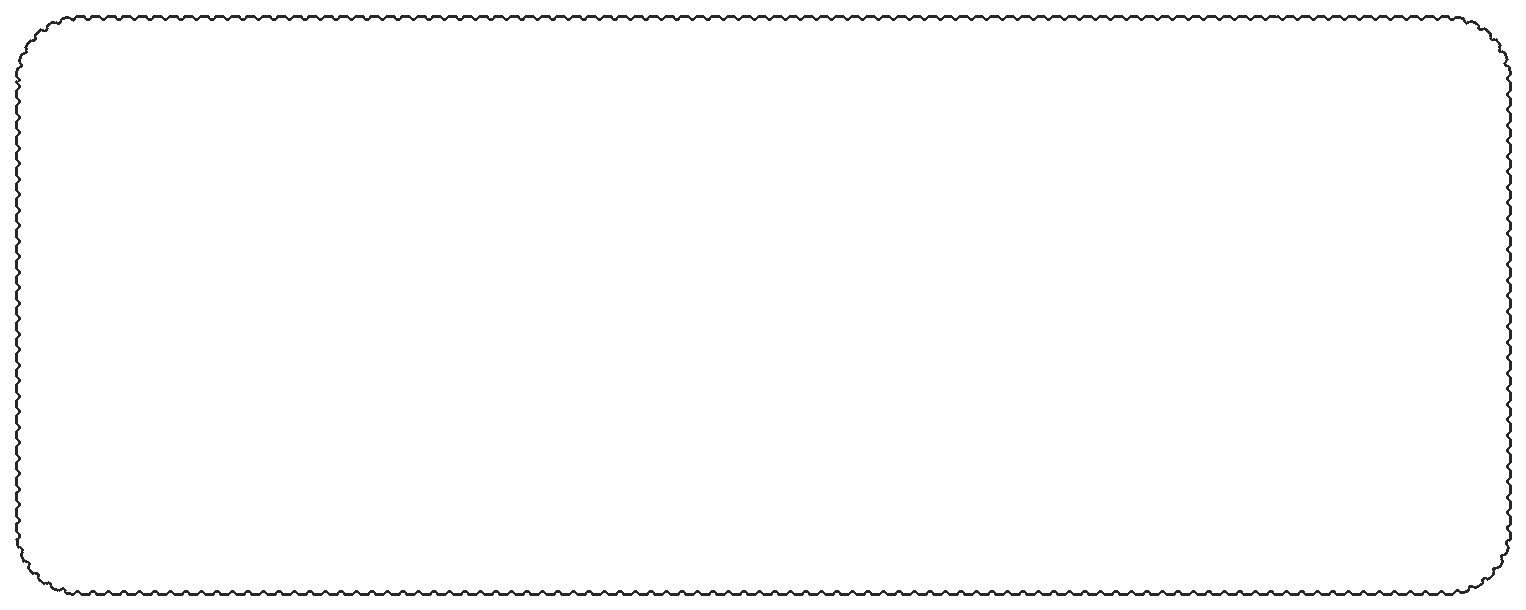
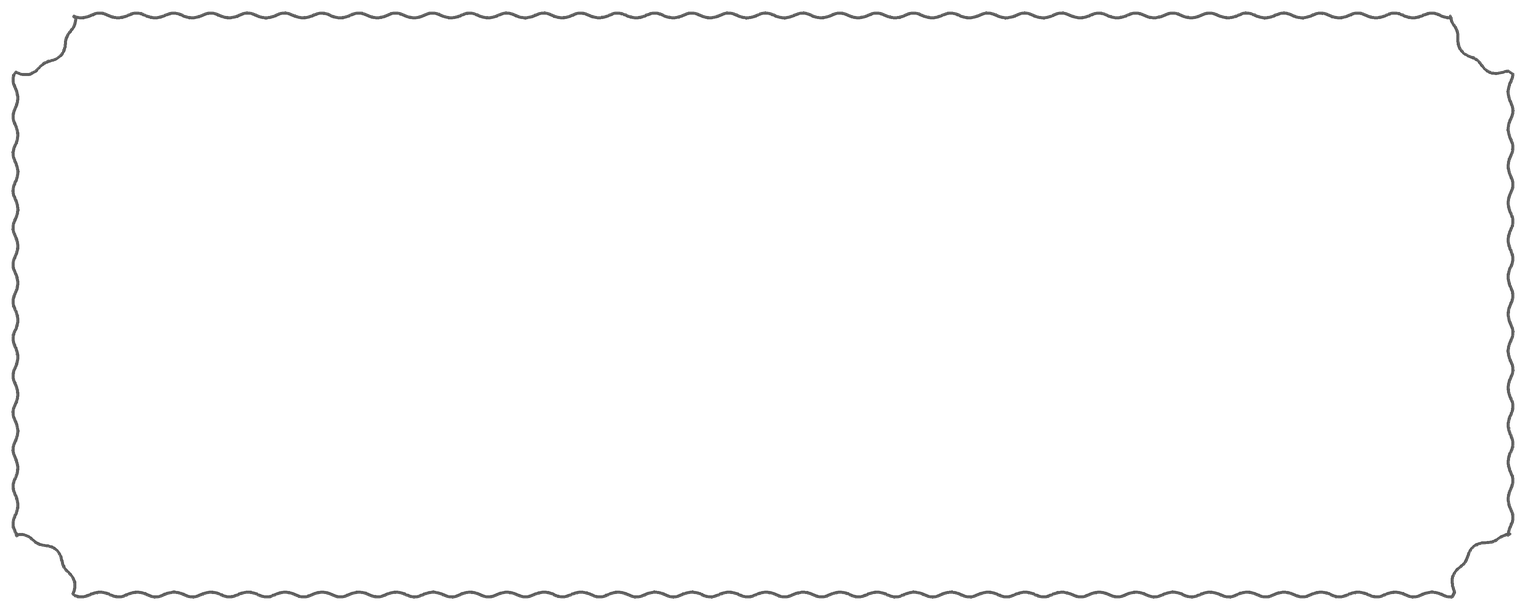
Restore pre-flow212 rect scallop pitch with cut-off corners (flow214).
flow212 rebuilt frame-box/wide with a finer whole-box waveform. Charles
only wanted concave cut-off corners on the existing scallop look. Restore
edge character/pitch (~18 box, ~37 wide) from pre-f7c1158 assets, keep
transparent inverse-fillet corners + raised border-image slices, leave
tip platter alone, cache-bust flow214.

diff --git a/tests/menus.test.js b/tests/menus.test.js
@@ -248,22 +248,35 @@ assert(platterBytes > 20000,
 (function assertCutCornerFrameAssets() {
   // PNG corners must be transparent (true cut-off), with ink inside the slice
   // region so border-image cannot collapse to sharp 90° boxes.
+  // Edge pitch must match pre-flow212 (box~18, wide~37) — not finer flow212 rewrite.
   var cp = require('child_process');
   var py = [
     'from PIL import Image',
-    'import sys',
-    'samples=[("frame-box.png",64),("frame-wide.png",80),("frame.png",64)]',
+    'import numpy as np, sys',
     'root=sys.argv[1]',
-    'for name,sl in samples:',
+    'def period(name):',
+    '  a=np.array(Image.open(f"{root}/images/{name}").convert("RGBA")); w=a.shape[1]',
+    '  ink=(a[:,:,0]<120)&(a[:,:,3]>40)',
+    '  ys=[np.where(ink[:,x])[0][0] for x in range(w//5,4*w//5) if ink[:,x].any()]',
+    '  ys=np.array(ys,float); t=np.arange(len(ys))',
+    '  r=ys-np.polyval(np.polyfit(t,ys,2),t); r-=r.mean()',
+    '  ac=np.correlate(r,r,mode="full"); ac=ac[len(ac)//2:]; ac/=(ac[0] or 1)',
+    '  for lag in range(6,min(90,len(ac)-1)):',
+    '    if ac[lag]>ac[lag-1] and ac[lag]>=ac[lag+1] and ac[lag]>0.2: return lag',
+    '  return None',
+    'samples=[("frame-box.png",64,18),("frame-wide.png",80,37),("frame.png",64,18)]',
+    'for name,sl,expect in samples:',
     '  im=Image.open(f"{root}/images/{name}").convert("RGBA"); w,h=im.size; px=im.load()',
     '  for x,y in [(2,2),(w-3,2),(2,h-3),(w-3,h-3)]:',
     '    if px[x,y][3]>=30: raise SystemExit(f"{name} corner opaque")',
     '  ink=sum(1 for y in range(sl) for x in range(sl) if px[x,y][3]>10 and sum(px[x,y][:3])<700)',
     '  if ink<40: raise SystemExit(f"{name} TL slice ink={ink}")',
+    '  p=period(name)',
+    '  if p is None or abs(p-expect)>4: raise SystemExit(f"{name} pitch={p} expect~{expect}")',
     'print("ok")'
   ].join('\n');
   var out = cp.execFileSync('python3', ['-c', py, root], { encoding: 'utf8' });
-  assert(/ok/.test(out), 'cut-corner frame PNGs have transparent notches + slice ink');
+  assert(/ok/.test(out), 'cut-corner frames: transparent notches + pre-flow212 scallop pitch');
 })();
 var printJs = fs.readFileSync(path.join(root, 'menus-print.js'), 'utf8');
 assert(printJs.indexOf('EBMenuPrint') !== -1 && printJs.indexOf('scallop') !== -1, 'print builder has scalloped boxes');
@@ -844,8 +857,8 @@ assert(page.indexOf('JS already placed the food map') !== -1 &&
   'generate lets Gemini refine Best-fit widths only — not locked shapes or Sharing stacks');
 assert(ingestJs.indexOf('mammoth') !== -1 && ingestJs.indexOf('readDocx') !== -1, 'Word .docx ingest via mammoth');
 assert(page.indexOf('.docx') !== -1 && page.indexOf('wordprocessingml') !== -1, 'upload accepts Word .docx');
-assert(page.indexOf('flow213') !== -1, 'menus page cache-bust is flow213');
-assert(fs.readFileSync(path.join(root, 'index.html'), 'utf8').indexOf('flow213') !== -1, 'hub menus link cache-bust is flow213');
+assert(page.indexOf('flow214') !== -1, 'menus page cache-bust is flow214');
+assert(fs.readFileSync(path.join(root, 'index.html'), 'utf8').indexOf('flow214') !== -1, 'hub menus link cache-bust is flow214');
 (function checkMenusStaffStableEntry() {
   var staffPath = path.join(root, 'menus-staff.html');
   assert(fs.existsSync(staffPath), 'menus-staff.html stable staff entry exists');

diff --git a/menus-print.js b/menus-print.js
@@ -525,10 +525,11 @@
   function scallop(inner, kind, extraCls) {
     // Real Canva/print frames via border-image so waves sit in the border
     // gutter and never cut through dish text (unlike stretched SVG/PNG fill).
-    // Rectangular frames (box + wide): cut-off concave corners (inverse fillet)
-    // with a fine scalloped border — never sharp 90°. box = tighter wave;
-    // wide = slightly looser wave (pair contrast). Tip-only adds scallop-platter
-    // (oval + fine scallops via frame-platter.png) and stays oval.
+    // Rectangular frames (box + wide): pre-flow212 scallop character/pitch/weight
+    // with cut-off concave corners only (inverse fillet) — never the finer
+    // whole-box waveform from flow212, never sharp 90°. box = tighter wave
+    // (~18px); wide = looser (~37px, matches tip platter). Tip-only adds
+    // scallop-platter (oval via frame-platter.png) and stays oval.
     var cls = kind === 'box' ? 'scallop scallop-box' : 'scallop scallop-wide';
     if (extraCls) cls += ' ' + String(extraCls).trim();
     return '<div class="' + cls + '"><div class="scallop-pad">' + inner + '</div></div>';
@@ -4397,17 +4398,18 @@
       '.sec-title.soft{font-size:min(calc(var(--title) - 2pt),var(--title-max));letter-spacing:.1em}' +
       '.sec-title.under{text-align:center;text-decoration:underline;text-underline-offset:3px;margin-top:var(--sec-gap)}' +
       '.classics-block{margin-top:4px}' +
-      /* System-wide rectangular feature frames: cut-off concave corners
-         (inverse fillet) + fine scallop border. Transparent PNG corners +
-         transparent element background so notches are not filled as 90° boxes.
-         Tip-only oval is excluded via .scallop-platter overrides below. */
+      /* System-wide rectangular feature frames: pre-flow212 scallop waveform
+         + cut-off concave corners (inverse fillet) only. Transparent PNG
+         corners + transparent element background so notches are not filled
+         as 90° boxes. Tip-only oval is excluded via .scallop-platter below. */
       '.scallop{margin:0 0 8px;background:transparent;position:relative;height:fit-content;' +
         'border-style:solid;border-color:transparent;border-width:14px;' +
         'border-image-slice:64 fill;border-image-repeat:stretch;border-image-width:14px;' +
         'overflow:hidden;max-width:100%;' +
         '-webkit-print-color-adjust:exact;print-color-adjust:exact}' +
-      // Cut-corner Canva frames: box = tight fine scallop, wide = looser wave.
-      // Slice must cover the full concave corner (never slice:42 — that dropped ink).
+      // Cut-corner Canva frames: restored pre-flow212 edge character
+      // (box ~18px pitch, wide ~37px). Slice covers full concave corner
+      // (never slice:42 — that dropped ink into sharp 90° boxes).
       '.scallop-wide{border-image-source:url("' + asset('frame-wide.png') + '");border-width:14px;border-image-width:14px;border-image-slice:80 fill}' +
       '.scallop-box{border-image-source:url("' + asset('frame-box.png') + '");border-width:14px;border-image-width:14px;border-image-slice:64 fill}' +
       // Adjacent food scallops: matching frames pick the other wave on the neighbour.

diff --git a/index.html b/index.html
@@ -604,7 +604,7 @@
       'giftcards-eightbells': 'https://www.eightbellsbolney.com/staff/vouchers',
       // Standalone Teya CSV reader (browser-only). Does not feed paperwork.
       'cardtakings-windmill': 'card-takings.html?venue=windmill',
-      'menus-eightbells': 'menus.html?v=20261010-flow213',
+      'menus-eightbells': 'menus.html?v=20261010-flow214',
       'rooms-windmill': 'https://rooms.windmilllittleworth.com',
       'payroll': 'https://owner.kinfoldinns.co.uk/payroll.html?v=20260901-xero-pull-timeout',
       'staffhub': 'https://script.google.com/macros/s/AKfycbwcE86RmdBYqgYESAjENcMmrBDW4UZjg9NnpSOnYxnSdwdc1IoRmJUgH900qnEp_ov7/exec'

diff --git a/menus.html b/menus.html
@@ -427,9 +427,9 @@
     <div class="menus no-print" id="menuPicker" role="tablist" aria-label="Which menu"></div>
     <div id="editor"></div>
   </main>
-  <script src="menus.js?v=20261010-flow213"></script>
-  <script src="menus-print.js?v=20261010-flow213"></script>
-  <script src="menus-ingest.js?v=20261010-flow213"></script>
+  <script src="menus.js?v=20261010-flow214"></script>
+  <script src="menus-print.js?v=20261010-flow214"></script>
+  <script src="menus-ingest.js?v=20261010-flow214"></script>
   <script>
     if (window.parent !== window) document.documentElement.classList.add('iframed');
 
